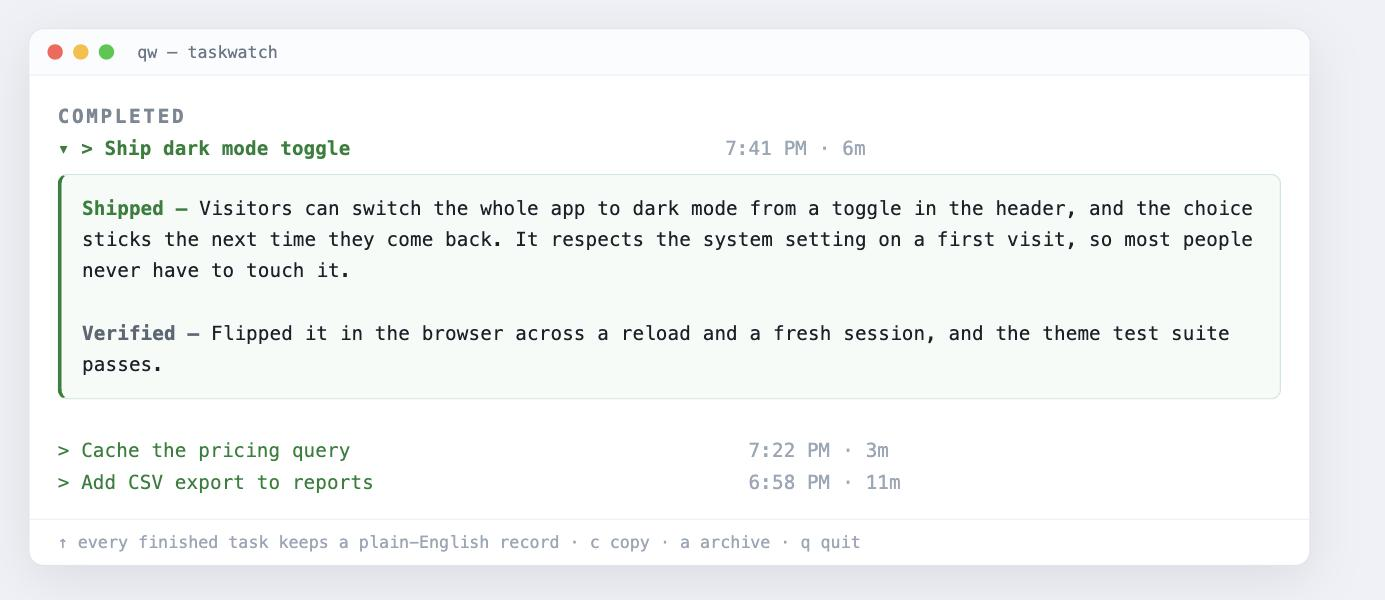
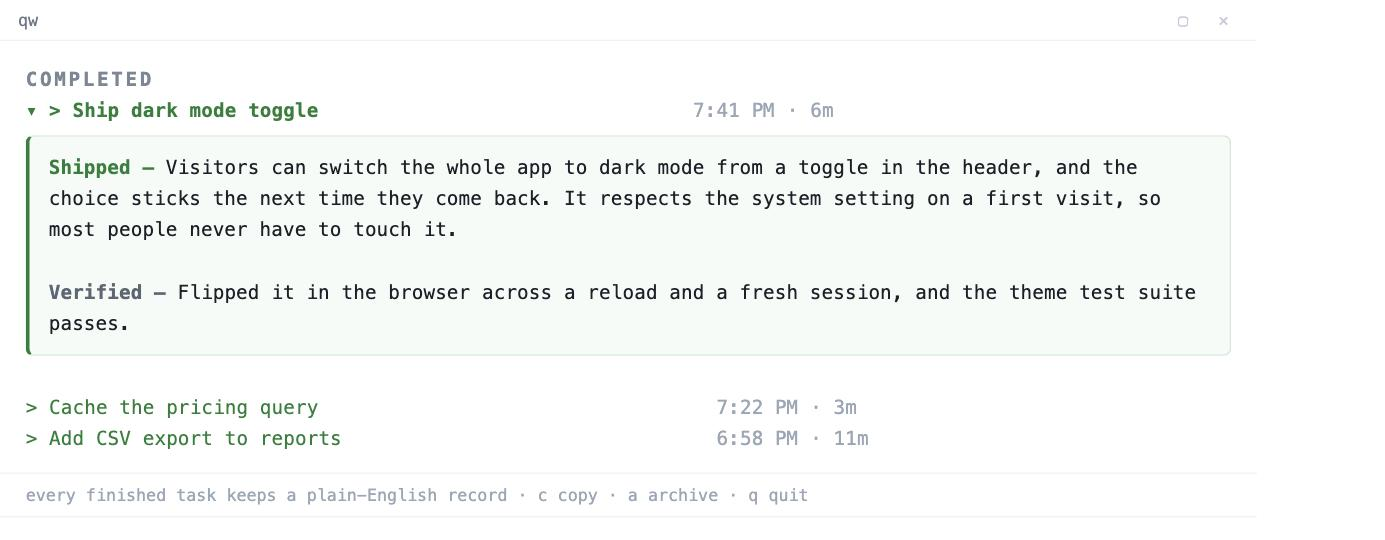
Polish tracker (substep hint, colored badges), rework copy, real-pane demo images
- taskwatch: active row shows current substep + N/M; colored [HIGH]/[URGENT] badges
- README/site: reposition vs issue trackers, add flow-state, cut fluff and em-dashes
- demo images restyled to match the real qw pane

diff --git a/docs/index.html b/docs/index.html
@@ -3,7 +3,7 @@
 <head>
 <meta charset="utf-8" />
 <meta name="viewport" content="width=device-width, initial-scale=1" />
-<title>Claude Queue — a persistent task queue for Claude Code</title>
+<title>Claude Queue: a persistent task queue for Claude Code</title>
 <meta name="description" content="A persistent TASKS.md work queue for Claude Code, with a live terminal tracker, a lossless prompt inbox, and plain-English completion summaries." />
 <style>
   :root{
@@ -56,13 +56,13 @@
     <a class="btn ghost" href="https://github.com/dannygreer/claude-queue/blob/main/docs/BUILD.md">Build it yourself</a>
     <a class="btn ghost" href="https://github.com/dannygreer/claude-queue">View on GitHub</a>
   </div>
-  <p class="note">Standard-library Python. No accounts, no services, no dependencies — your queue is a plain Markdown file in your project.</p>
+  <p class="note">Standard-library Python. No accounts, no services, no dependencies. Your queue is a plain Markdown file in your project.</p>
 
   <img src="queue-overview.png" alt="The Claude Queue tracker showing active, blocked, queued, and completed tasks" style="width:100%;height:auto;border-radius:14px;border:1px solid var(--line);margin:8px 0 30px" />
 
   <div class="card">
-    <h2>Why it exists</h2>
-    <p class="why">I run most project work through Linear — great for epics and the <em>why</em> over weeks. But the actual work happens in the CLI, and I kept losing the thread of what had <em>actually</em> shipped in a long session. I also like to keep feeding Claude new tasks while it's still working, and those mid-flight requests were easy to drop. Claude Queue is the memory layer between the CLI firehose and the Linear board: nothing you ask gets lost, and every finished task leaves a readable record.</p>
+    <h2>How this is different from an issue tracker</h2>
+    <p class="why">Issue trackers like Linear, Plane, or Jira manage the big picture: epics and issues you plan over days and weeks. Claude Queue works at a different altitude. It lives inside a single Claude Code session, where you pound tasks into the agent as fast as you think of them. It keeps a running list so nothing you asked for gets dropped, and every finished task leaves a short note on what changed. The point is to stay in flow: keep firing ideas at Claude instead of babysitting a checklist or scrolling back to see where things landed.</p>
   </div>
 
   <div class="card">
@@ -70,16 +70,16 @@
     <ul class="feat">
       <li><strong>/queue activates queue mode.</strong> Claude works the list one task at a time until it's done or blocked.</li>
       <li><strong>Keep typing.</strong> Every prompt you send mid-session is captured to a lossless inbox and folded into the queue.</li>
-      <li><strong>Honest progress.</strong> Substeps get checked off as they're completed — not all at once at the end.</li>
+      <li><strong>Honest progress.</strong> Substeps get checked off as they're completed, not all at once at the end.</li>
       <li><strong>Readable history.</strong> Each finished task stores a plain-English Shipped / Verified summary you can export.</li>
-      <li><strong>Live tracker.</strong> <code>taskwatch TASKS.md</code> — a curses TUI with search, filter, priority badges, and per-task detail.</li>
+      <li><strong>Live tracker.</strong> <code>taskwatch TASKS.md</code>, a curses TUI with search, filter, priority badges, and per-task detail.</li>
       <li><strong>Crash-safe.</strong> Atomic, flock-protected state with an append-only log it can rebuild from.</li>
     </ul>
   </div>
 
   <div class="card">
     <h2>Install</h2>
-    <p>Clone and run the installer — it copies the skill into <code>~/.claude</code> and the tracker onto your path.</p>
+    <p>Clone and run the installer. It copies the skill into <code>~/.claude</code> and the tracker onto your path.</p>
     <pre><code>git clone https://github.com/dannygreer/claude-queue.git
 cd claude-queue
 ./install.sh

diff --git a/README.md b/README.md
@@ -1,6 +1,6 @@
 # Claude Queue
 
-A persistent task queue for [Claude Code](https://claude.com/claude-code) — with a live terminal tracker, a lossless prompt inbox, and plain-English "here's what I finished" summaries. Type `/queue`, keep feeding it work, and watch progress in a second pane.
+A persistent `TASKS.md` work queue for [Claude Code](https://claude.com/claude-code). It gives you a live terminal tracker, a prompt inbox that never drops a request, and a plain-English record of everything that gets finished. Type `/queue`, keep feeding it work, and watch it go in a second pane.
 
 > Standard-library Python. No accounts, no services, no dependencies. Your queue is a plain `TASKS.md` file in your project.
 
@@ -8,27 +8,22 @@ A persistent task queue for [Claude Code](https://claude.com/claude-code) — wi
 
 ---
 
-## Why I built this
+## How this is different from an issue tracker
 
-I run most project work through [Linear](https://linear.app). It's great for tracking epics and issues at the project level — the *what* and the *why* over weeks.
+Issue trackers like Linear, Plane, or Jira manage the big picture: epics and issues you plan over days and weeks. Keep doing that where you already do it.
 
-But the actual work happens in the Claude Code CLI, and two things kept biting me:
+Claude Queue works at a different altitude. It lives inside a single Claude Code session, where you pound tasks into the agent as fast as you think of them. It keeps a running list so nothing you asked for gets dropped, and every finished task leaves a short note on what changed, so you can look back and see what actually got done.
 
-1. **I'd lose the thread of what had actually been done.** A long session would scroll past, tasks would get finished, and by the end I couldn't easily reconstruct what shipped versus what I'd only talked about. The CLI is a river; Linear is too coarse to catch the day-to-day.
-2. **I like to keep feeding Claude tasks while it's still working.** I don't want to wait for it to finish before I add the next three things I just thought of. But new requests mid-flight are easy to drop — for me *and* for the agent.
-
-So I built Claude Queue. It turns a `TASKS.md` into a real work queue: every task gets a stable ID and automatic timestamps, every prompt you send mid-session is captured to an inbox so nothing you ask gets silently dropped, and every completed task ends with a short **Shipped / Verified** record you can actually read back later. A live tracker in a second pane shows exactly what's active, queued, blocked, and done.
-
-It's the memory layer between "the CLI firehose" and "my Linear board."
+The point is to stay in flow. You keep firing ideas at Claude instead of babysitting a checklist or scrolling back to figure out where things landed.
 
 ---
 
 ## What it does
 
 - **`/queue` activates queue mode.** Claude works the list top-to-bottom, one task at a time, and doesn't stop until everything is done or explicitly blocked.
-- **Keep typing.** Every prompt you send while it's working is captured to a lossless inbox and folded into the queue — no dropped requests.
+- **Keep typing.** Every prompt you send while it's working is captured to a lossless inbox and folded into the queue, so nothing gets dropped.
 - **Honest progress.** Tasks break into substeps that get checked off *as they're completed*, not all at once at the end.
-- **Readable history.** Each finished task stores a plain-English `Shipped —` / `Verified —` summary. Expand any completed task to read exactly what changed and how it was checked — or export the whole log.
+- **Readable history.** Each finished task stores a plain-English `Shipped —` / `Verified —` summary. Expand any completed task to read exactly what changed and how it was checked, or export the whole log.
 - **Live tracker.** A curses TUI: active / queued / blocked / done, priority badges, search, filter, and per-task detail.
 - **Crash-safe.** State is atomic and flock-protected, with an append-only event log it can rebuild from if anything gets corrupted.
 
@@ -77,7 +72,7 @@ taskwatch --doctor      # or: ~/.claude/bin/taskwatch --doctor
 ### Requirements
 
 - [Claude Code](https://claude.com/claude-code)
-- Python 3.9+ (standard library only — nothing to `pip install`)
+- Python 3.9+ (standard library only, nothing to `pip install`)
 - macOS or Linux (uses `fcntl` file locking)
 
 ---
@@ -96,7 +91,7 @@ Claude turns that into tasks and starts working. Open a second terminal pane to 
 qw            # the shortcut, or the full form: taskwatch TASKS.md
 ```
 
-Add more work at any time — just type it. It gets queued, not dropped.
+Add more work at any time. Just type it, and it gets queued, not dropped.
 
 The queue lives in `TASKS.md` at your project root. Tracker state lives in `.claude/taskwatch/` next to it (auto-excluded from Git via `.git/info/exclude`, so it never clutters your commits).
 
@@ -118,7 +113,7 @@ All three share `queue_lib.py`, which also backs `taskwatch`. `TASKS.md` is the 
 
 ## Build it yourself
 
-Prefer to grow your own version (or have Claude Code build it for you) instead of installing this one? The full design spec and a copy-paste build brief are in **[docs/BUILD.md](docs/BUILD.md)** — architecture, the `TASKS.md` format, the hook contracts, and the invariants that keep it crash-safe.
+Prefer to grow your own version (or have Claude Code build it for you) instead of installing this one? The full design spec and a copy-paste build brief are in **[docs/BUILD.md](docs/BUILD.md)**: the architecture, the `TASKS.md` format, the hook contracts, and the invariants that keep it crash-safe.
 
 ---
 
